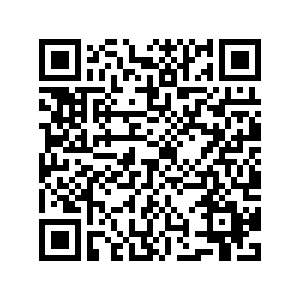
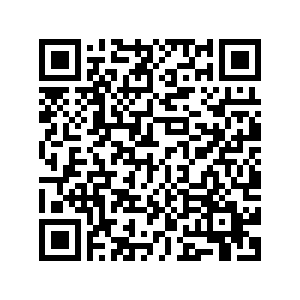
editar reservas bien

diff --git a/src/main/resources/templates/reservation/update.html b/src/main/resources/templates/reservation/update.html
@@ -1,0 +1,104 @@
+<!DOCTYPE html>
+<html lang="es" xmlns:th="http://www.thymeleaf.org"
+      xmlns:layout="http://www.ultraq.net.nz/thymeleaf/layout">
+<body>
+<div th:replace="fragments/headerRegistered"></div>
+
+
+<div class="container">
+    <h2 class="text-uppercase text-center text-secondary mb-0" >
+        Editar reserva
+    </h2>
+    <br><hr class="barra-normal">
+    <br>
+
+    <form class="form-horizontal" action="#" th:action="@{/reservation/update}"
+           th:object="${reservation}" method="post">
+
+        <!-- Necesario para no perder la informacion -->
+        <div hidden class="form-group row">
+            <label class="control-label col-sm-2">Id:</label>
+            <div class="col-sm-4">
+                <input readonly class="form-control" type="text" th:field="*{reservationNumber}">
+            </div>
+        </div>
+
+        <div class="form-group row">
+            <label class="control-label col-sm-3">Reserva para el día:</label>
+            <div class="col-sm-2">
+                <input readonly placeholder="yyyy-MM-dd" type="text" class="form-control" th:field="*{reservationDate}"/>
+
+             </div>
+        </div>
+
+        <!-- Necesario para no perder la informacion -->
+        <div hidden class="form-group row">
+            <label class="control-label col-sm-2">Fecha creación:</label>
+            <div class="col-sm-5">
+                <input readonly  class="form-control" type="text" th:field="*{creationDate}">
+            </div>
+        </div>
+
+        <!-- Necesario para no perder la informacion -->
+        <div hidden class="form-group row">
+            <label class="control-label col-sm-2">Hora creación:</label>
+            <div class="col-sm-4">
+                <input readonly class="form-control" type="text" th:field="*{creationTime}">
+            </div>
+        </div>
+
+
+        <div class="form-group row">
+            <label class="control-label col-sm-3" for="numberOfPeople">Núm. personas que finalmente acudirán: </label>
+            <div class="col-sm-2">
+                <input type="number" min="1" th:max="${maxCapacity}" required class="form-control" id="numberOfPeople" th:field="*{numberOfPeople}" value="1"/>
+            </div>
+        </div>
+
+        <!-- Necesario para no perder la informacion -->
+        <div hidden class="form-group row">
+            <label class="control-label col-sm-2">Estado:</label>
+            <div class="col-sm-4">
+                <input readonly class="form-control form-control-lg selectReserva" type="text" th:field="*{state}">
+            </div>
+        </div>
+
+        <!-- Necesario para no perder la informacion -->
+        <div hidden class="form-group row">
+            <label class="control-label col-sm-2">Qr:</label>
+            <div class="col-sm-4">
+                <input readonly class="form-control form-control-lg selectReserva" type="text" th:field="*{QRcode}">
+            </div>
+        </div>
+
+        <!-- Necesario para no perder la informacion -->
+        <div hidden class="form-group row">
+            <label class="control-label col-sm-2">Email ciudadano:</label>
+            <div class="col-sm-4">
+                <input readonly class="form-control form-control-lg selectReserva" type="text" th:field="*{citizenEmail}">
+            </div>
+        </div>
+
+        <!-- Necesario para no perder la informacion -->
+        <div hidden class="form-group row">
+            <label class="control-label col-sm-3">Durante la franja horaria:</label>
+            <div class="col-sm-2">
+                <input readonly class="form-control form-control-lg selectReserva" type="text" th:field="*{timeSlotId}">
+            </div>
+        </div>
+
+        <button type="submit" class="btn btn-primary">Actualizar reserva</button>
+        <br><br>
+
+    </form>
+
+    <a th:href="@{/reservation/reservas/}">
+        <button type="button" class="btn btn-primary">Volver</button></a>
+    <br><br>
+
+</div>
+
+<div th:replace="fragments/footer"></div>
+
+</body>
+</html>

diff --git a/src/main/resources/templates/reservation/reservas.html b/src/main/resources/templates/reservation/reservas.html
@@ -39,9 +39,9 @@
                         <button style="float: right" type="button" class="btn btn-primary" data-toggle="modal"
                                 th:data-target="${'#miModal' + reserva.reservationNumber}">Cancelar reserva
                         </button>
-                        <button style="float: right; margin-right: 10px" type="button" class="btn btn-secondary"
-                                data-toggle="modal" th:data-target="${'#miModal2' + reserva.reservationNumber}">Modificar reserva
-                        </button>
+
+                        <a style="float: right; margin-right: 10px" th:href="${'/reservation/update/' + reserva.reservationNumber}">
+                            <button type="button" class="btn btn-secondary"> Modificar reserva</button> </a>
                     </div>
                 </div>
                 <br>
@@ -71,30 +71,6 @@
                     </div>
                 </div>
 
-                <!-- VENTANA EMERGENTE EDITAR-->
-                <div class="modal" th:id="${'miModal2' + reserva.reservationNumber}">
-                    <div class="modal-dialog modal-dialog-centered" role="document">
-                        <div class="modal-content">
-                            <div class="modal-header">
-                                <h5 class="modal-title">Editar reserva</h5>
-                                <button style="font-size:x-large; color: #b86f52" type="button" class="close"
-                                        data-dismiss="modal" aria-label="Close">&times;
-                                </button>
-                            </div>
-                            <div class="modal-body">
-                                <p>Indique el número de personas que finalmente acudirán: </p>
-                            </div>
-                            <form th:action="@{/reservation/editarReserva/} + ${reserva.reservationNumber}" th:object="${personas}">
-                                <input type="number" min="1" class="form-control motivo" id="personas"
-                                       th:field="${personas.num}">
-                                <div class="modal-footer">
-                                    <button type="submit" class="btn btn-primary">Confirmar</button>
-                                    <button type="button" class="btn btn-secondary" data-dismiss="modal">Atrás</button>
-                                </div>
-                            </form>
-                        </div>
-                    </div>
-                </div>
             </div>
         </div>
         <br>

diff --git a/src/main/java/es/uji/ei102720mgph/SANA/controller/ReservationController.java b/src/main/java/es/uji/ei102720mgph/SANA/controller/ReservationController.java
@@ -207,29 +207,36 @@ public class ReservationController {
         return "redirect:/reservation/reservas";
     }
 
-    @RequestMapping("/editarReserva/{id}")
-    public String editarReserva(@ModelAttribute("personas") PersonasReserva personas,
-                                @PathVariable String id, Model model, HttpSession session) {
+    @RequestMapping("/update/{id}")
+    public String updateReserva(@PathVariable String id, Model model, HttpSession session) {
         if (session.getAttribute("registeredCitizen") == null) {
             model.addAttribute("userLogin", new UserLogin() {});
             session.setAttribute("nextUrl", "/reservation/reservas");
             return "redirect:/inicio/login";
         }
 
-        int pers = personas.getNum();
-        //Validamos que el número de personas es correcto:
         int reservationId = Integer.parseInt(id);
         int maxCapacity = reservationDao.getMaximumCapacityOfReservation(reservationId);
-        if (pers > maxCapacity || pers <= 0){
-            //Esto es que no puede reservar
-            //model.addAttribute("maxCapacity", maxCapacity);
-            //return "redirect:/reservation/editarReserva/" + id + "/#miModal2";
+
+        model.addAttribute("maxCapacity", maxCapacity);
+        model.addAttribute("reservation", reservationDao.getReservation(reservationId));
+
+        return "reservation/update";
+    }
+
+    @RequestMapping(value="/update", method= RequestMethod.POST)
+    public String updateReservaPOST(@ModelAttribute("reservation") Reservation reservation) {
+        int reservationId = reservation.getReservationNumber();
+        int maxCapacity = reservationDao.getMaximumCapacityOfReservation(reservationId);
+        String id = reservationId + "";
+
+        //Validamos que el número de personas es correcto:
+        if (reservation.getNumberOfPeople() > maxCapacity || reservation.getNumberOfPeople() <= 0){
+            return "reservation/update/" + reservationId;
         }
         else{
-            reservaDatosDao.modificaReservaPersonas(id, pers);
-
+            reservaDatosDao.modificaReservaPersonas(id, reservation.getNumberOfPeople());
             // Actualizar QR con los nuevos datos de la reserva
-            Reservation reservation = reservationDao.getReservation(Integer.parseInt(id));
             String timeSlotId = reservation.getTimeSlotId();
             TimeSlot timeSlot = timeSlotDao.getTimeSlot(timeSlotId);
             String text = "Reserva por " + reservation.getCitizenEmail() + ", de fecha " + reservation.getReservationDate()
@@ -247,6 +254,7 @@ public class ReservationController {
 
         return "redirect:/reservation/reservas";
     }
+
 
     @RequestMapping("/editarReservaMuni/{naturalArea}/{id}")
     public String editarReservaMuni(@ModelAttribute("personas") PersonasReserva personas, @PathVariable String naturalArea, @PathVariable String id, Model model, HttpSession session) {
